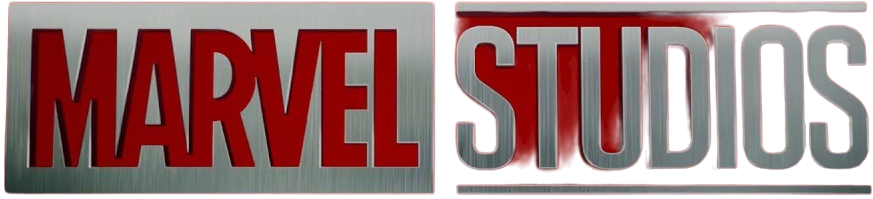
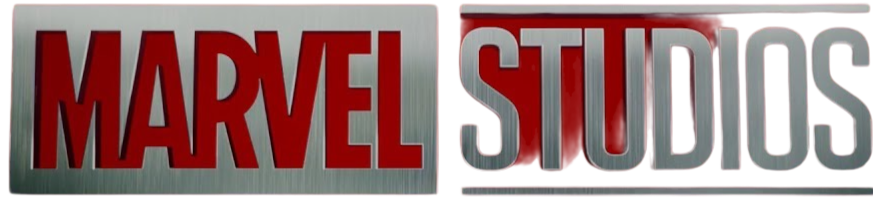
Index principal , modificado

diff --git a/index.html b/index.html
@@ -10,14 +10,12 @@
 <body>
     
     <header  >
-        <div class="div-header"> <img class="header-img1" src="/img/1-header/foto1.jpg" alt="" > <img class="header-img2" src="/img/1-header/foto2.jpg" alt="" > <img class="header-img3"  src="/img/1-header/foto3.jpg" alt="" > </div>
+        <div > <img class="header-img1" src="/img/1-header/foto1.jpg" alt="MARVEL STUDIOS" > <img class="header-img2" src="img/2-titulo/titulo.jpg" alt="DEADPOOL" > <img class="header-img3"  src="/img/1-header/foto3.jpg" alt="" > </div>
     </header>
     
     
 
-    <div >
-        <img class="titulo" src="/img/2-titulo/titulo.jpg" alt="">
-    </div>
+    
     
     
     <section class="tarjetas" >
@@ -41,11 +39,19 @@
         </div>
     </section>
     
-    <p class="parrafo-entradas">Entradas a la ventas.....</p>
-    <nav>
-        <a href="ventaDeEntradas.html"></a>
-    </nav>
     
+    <main>
+    <nav>
+        <a class="nav" href="ventaDeEntradas.html">Entradas a la ventas.....</a>
+    </nav>
+
+    <div class="img-Pochoclos">
+    <img src="" alt="Pochoclo1">
+    <img src="" alt="Pochoclo2">
+    <img src="" alt="Pochoclo3">
+</div>
+
+</main>
     <footer class="footer">
         <p class="parrafo1">Solo en cines</p>
     </footer>

diff --git a/estilo.css b/estilo.css
@@ -1,4 +1,6 @@
-
+body{
+    background-color: #feeee2 ;
+}
 /* Header */
 /* header-img1 */
 .header-img1{
@@ -9,20 +11,27 @@ animation-name: titulo;
 animation-duration: 2s;
 }
 
-
+@keyframes titulo {
+    100%{
+        scale: 200%;
+    
+    }
+}
 
 
 /* titulo */
-.titulo{
+.header-img2{
     width: 20%;
     margin-left: 643px;
     margin-top: 3%;
+    animation-name: subtitulo;
+    animation-duration: 2s;
 
 } 
 
-@keyframes titulo {
-    90%{
-        transform: translate(50%);
+@keyframes subtitulo {
+    100%{
+        scale: 170%;
     
     }
 }
@@ -52,7 +61,7 @@ animation-duration: 2s;
 }
 
 
-.parrafo-entradas{
+.nav{
     color: blue;
     font: bold;
     font-size: 65px;
@@ -60,8 +69,19 @@ animation-duration: 2s;
     margin-top: 5%;
     text-decoration: underline;
 }
-:hover .parrafo-entradas{
-   color:red;
+:hover .nav{
+    cursor: pointer;
+    color:rgb(0, 200, 255);
+border: solid 2px;
+margin-right: 30%;
+font-weight: bolder;
+justify-content: center;
+
+
+.img-Pochoclos{
+    margin-left:50% ;
+}
+
 }
 
 .footer{
